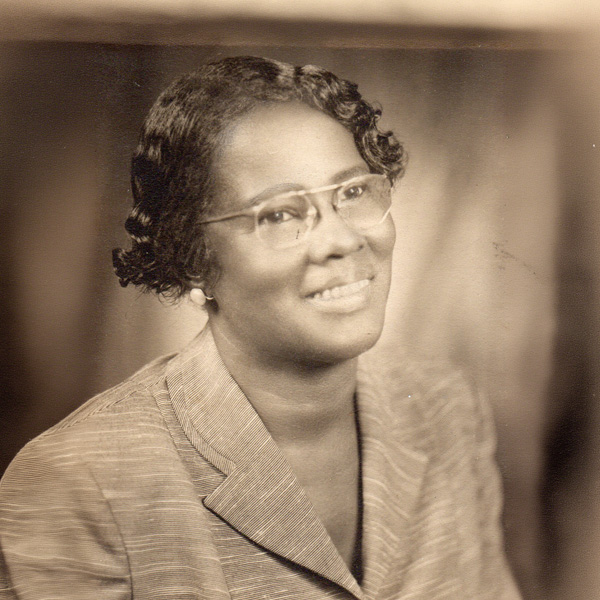
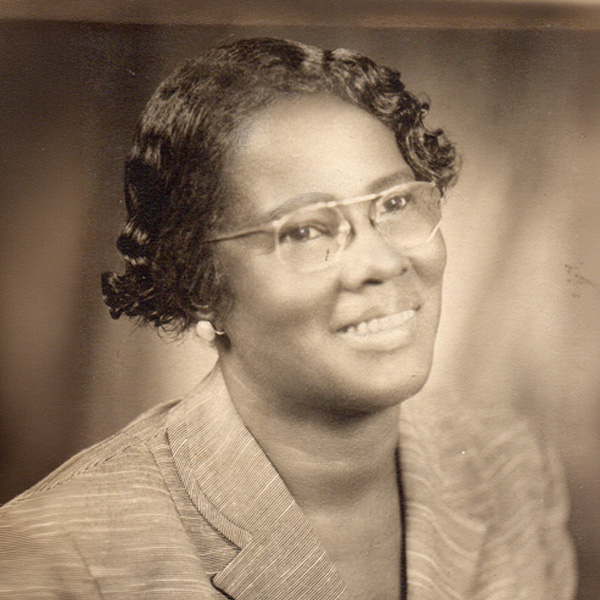
Updated Daisy T. Washington's photo.

diff --git a/projects/website-projects/pbc-black-trailblazers-timeline.html b/projects/website-projects/pbc-black-trailblazers-timeline.html
@@ -392,7 +392,7 @@
               <img 
                 class="tl-img" 
                 src="/images/bhm/images/daisy-washington-thomas.jpg" 
-                alt="Portrait of Palm Beach County Trailblazer" 
+                alt="Portrait of Daisy T. Washington." 
                 height="175" 
                 width="175"
               >
